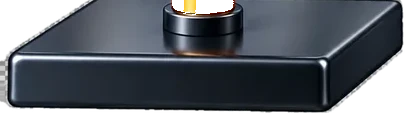
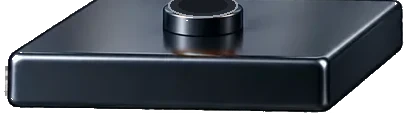
Add files via upload

diff --git a/about.html b/about.html
@@ -18,7 +18,7 @@
 <link rel="icon" type="image/png" sizes="192x192" href="/icon-192.png">
 <link rel="preconnect" href="https://fonts.googleapis.com">
 <link rel="preconnect" href="https://fonts.gstatic.com" crossorigin>
-<link href="https://fonts.googleapis.com/css2?family=Readex+Pro:wght@300;400;500;600;700&display=swap" rel="stylesheet">
+<link href="https://fonts.googleapis.com/css2?family=IBM+Plex+Sans+Arabic:wght@400;500;600;700&display=swap" rel="stylesheet">
 <script type="application/ld+json">
 {"@context":"https://schema.org","@graph":[
 {"@type":"AboutPage","name":"عن منصة الفيزياء العامة 101 التدريبية","url":"https://physics101.onrender.com/about.html","inLanguage":"ar","isPartOf":{"@type":"WebSite","name":"منصة الفيزياء العامة 101 التدريبية","url":"https://physics101.onrender.com/"},"about":{"@id":"#course"},"author":{"@id":"#trainer"}},
@@ -30,7 +30,7 @@
 @media (prefers-color-scheme:dark){:root{--paper:#11151D;--panel:#181D27;--ink:#E7EAF0;--muted:#9AA3B5;--line:#2A3140;--soft:#1B212C;--accent:#38BDF8;--accent-soft:#0C2A3D;--lab-soft:#2A1E10;--lab-line:#5A3A16}}
 *{box-sizing:border-box}
 html{-webkit-text-size-adjust:100%}
-body{margin:0;background:var(--paper);color:var(--ink);font-family:'Readex Pro',system-ui,sans-serif;line-height:1.85;font-size:16.5px}
+body{margin:0;background:var(--paper);color:var(--ink);font-family:'IBM Plex Sans Arabic',system-ui,sans-serif;line-height:1.85;font-size:16.5px}
 a{color:var(--accent)}
 .wrap{max-width:980px;margin:0 auto;padding:0 16px}
 .hero{background:linear-gradient(135deg,#1e7be0,#0d4fa8);color:#fff;padding:34px 0 30px}
@@ -82,7 +82,7 @@ footer a{margin:0 8px}
 .ltr{direction:ltr;unicode-bidi:isolate}
 @media (max-width:640px){.nums{grid-template-columns:repeat(2,1fr)}.hero{padding-bottom:34px}}
 </style>
-<style>/* 75: خط Readex Pro */body,button,input,select,textarea,table,th,td{font-family:'Readex Pro',Tahoma,'Segoe UI',Arial,sans-serif}</style></head>
+</head>
 <body>
 <header class="hero">
  <div class="wrap">
